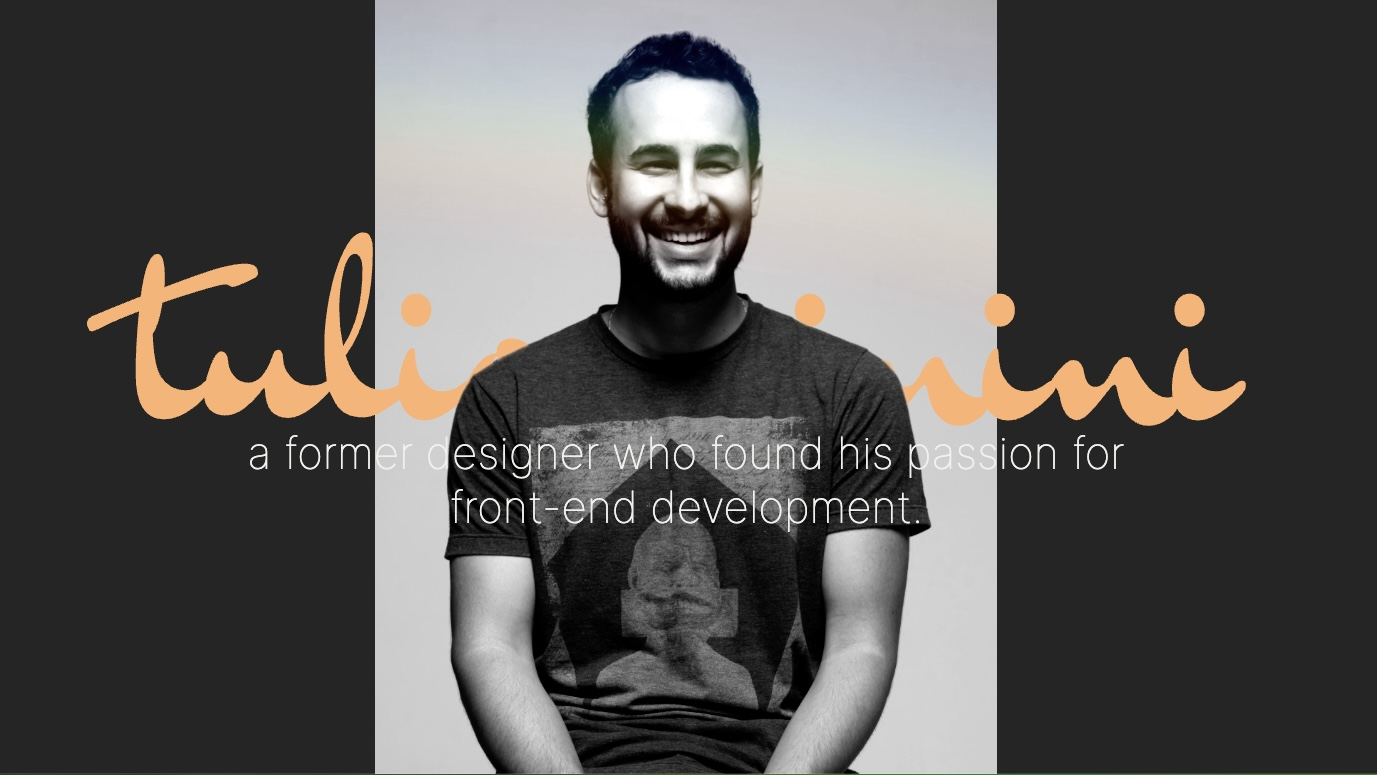
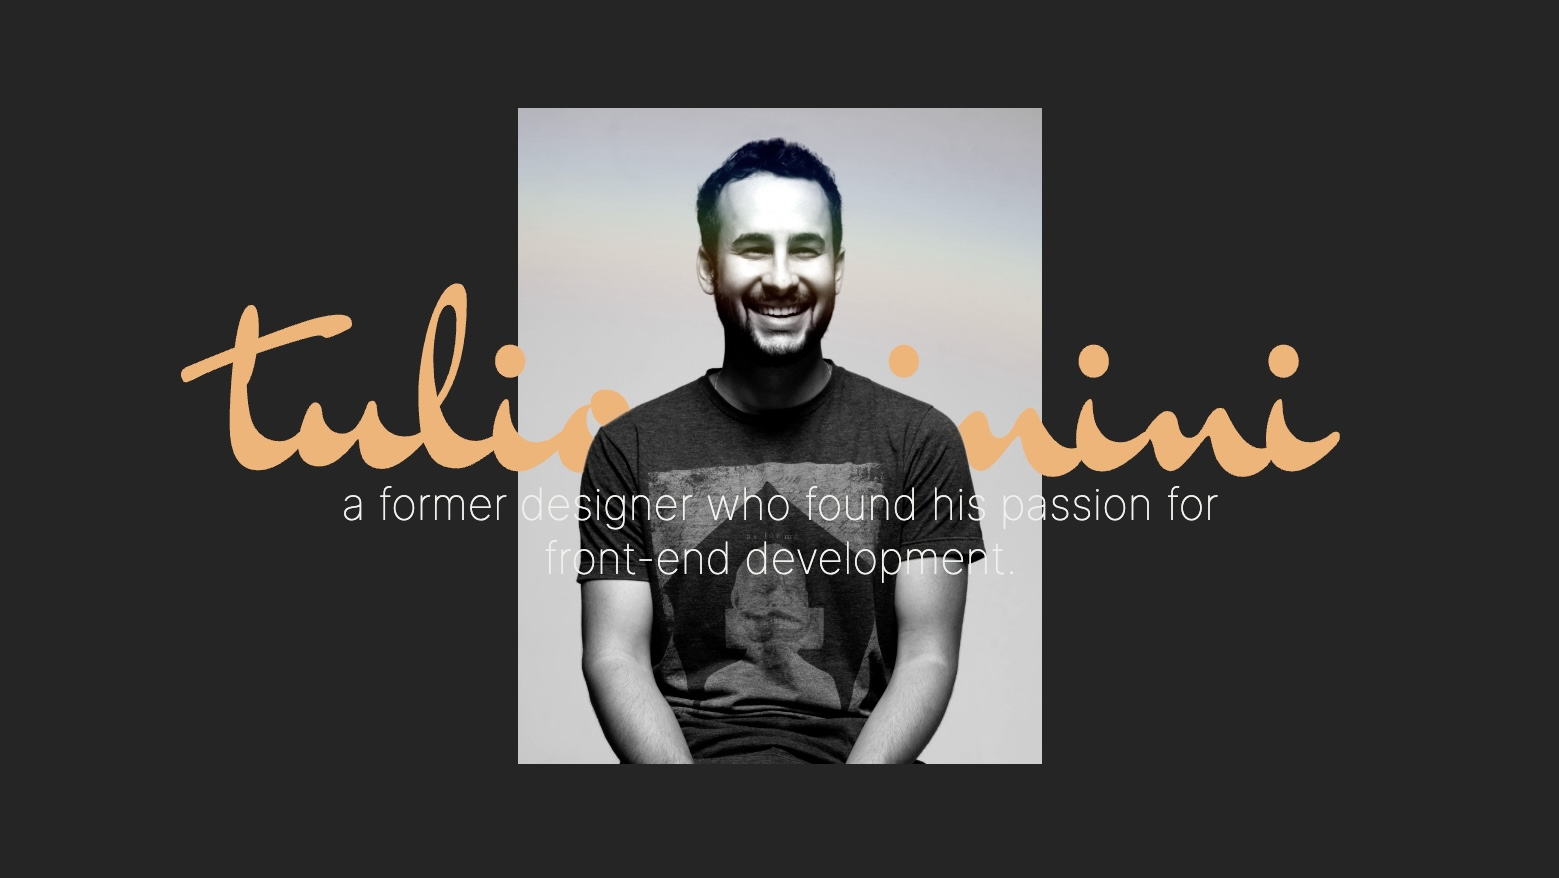
updating hero image size and website description on Projects

diff --git a/src/components/hero/Hero.module.css b/src/components/hero/Hero.module.css
@@ -4,6 +4,9 @@
   min-height: 100dvh;
   position: relative;
   background-color: var(--black);
+  display: flex;
+  align-items: center;
+  justify-content: center;
 }
 
 .hero__text {
@@ -33,19 +36,21 @@
 }
 
 .img__container {
-  height: 100%;
+  /* height: 100%; */
   display: flex;
-  min-width: 100vw;
+  /* min-width: 100vw; */
   position: absolute;
   align-items: center;
   justify-content: center;
 }
 
 .img__back {
+  width: 60%;
   z-index: 1;
 }
 
 .img__front {
+  width: 60%;
   z-index: 3;
 }
 
@@ -62,31 +67,31 @@
   }
 
   .img__back {
-    width: 63%;
+    width: 60%;
   }
 
   .img__front {
-    width: 63%;
+    width: 60%;
   }
 }
 
 /* SMARTPHONES - SHORTER SCREENS (LANDSCAPE) */
 @media only screen and (min-width: 665px) and (orientation: landscape) {
   .hero__text h1 {
-    font-size: 14rem;
-    line-height: 9rem;
+    font-size: 11rem;
+    line-height: 8rem;
   }
 
   .hero__text p {
-    font-size: 2.2rem;
+    font-size: 2rem;
   }
 
   .img__back {
-    height: 100%;
+    width: 30%;
   }
 
   .img__front {
-    height: 100%;
+    width: 30%;
   }
 }
 
@@ -99,6 +104,14 @@
 
   .hero__text p {
     font-size: 1.6rem;
+  }
+
+  .img__back {
+    width: 55%;
+  }
+
+  .img__front {
+    width: 55%;
   }
 }
 
@@ -119,11 +132,11 @@
   }
 
   .img__back {
-    width: 65%;
+    width: 60%;
   }
 
   .img__front {
-    width: 65%;
+    width: 60%;
   }
 }
 
@@ -136,6 +149,14 @@
 
   .hero__text p {
     font-size: 3.4rem;
+  }
+
+  .img__back {
+    width: 50%;
+  }
+
+  .img__front {
+    width: 50%;
   }
 }
 
@@ -163,12 +184,12 @@
 /* IPAD AIR (LANDSCAPE) */
 @media only screen and (min-width: 1179px) and (orientation: landscape) {
   .hero__text h1 {
-    font-size: 24rem;
-    line-height: 19rem;
+    font-size: 22rem;
+    line-height: 14rem;
   }
 
   .hero__text p {
-    font-size: 3.8rem;
+    font-size: 3.6rem;
   }
 }
 
@@ -192,7 +213,7 @@
   }
 }
 
-/* IPAD PRO and MACBOOK PRO 14" (LANDSCAPE) */
+/* MACBOOK PRO 14" and IPAD PRO  (LANDSCAPE) */
 @media only screen and (min-width: 1365px) and (orientation: landscape) {
   .hero__text h1 {
     font-size: 28rem;
@@ -202,16 +223,24 @@
   .hero__text p {
     font-size: 4.4rem;
   }
+
+  .img__back {
+    width: 60%;
+  }
+
+  .img__front {
+    width: 60%;
+  }
 }
 
 /* MONITORS (LANDSCAPE) */
 @media only screen and (min-width: 1520px) and (orientation: landscape) {
-  .hero__text h1 {
-    font-size: 32rem;
-    line-height: 21rem;
+  /* .hero__text h1 {
+    font-size: 28rem;
+    line-height: 19rem;
   }
 
   .hero__text p {
-    font-size: 5.2rem;
-  }
+    font-size: 4.4rem;
+  } */
 }
